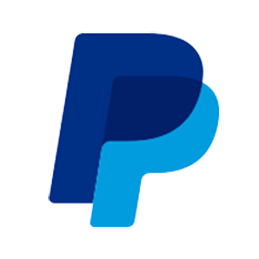
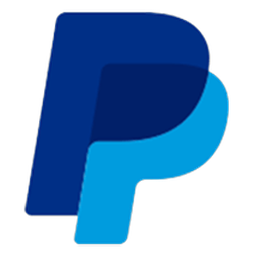
asad: PayPal в тикере крупнее и без пустых полей

Changed region(s): [[0.0938, 0.0312, 0.9062, 0.9688]]

diff --git a/index.html b/index.html
@@ -604,6 +604,25 @@
         color: #0a0a0a !important;
       }
 
+
+      /* Ticker: PayPal mark fills the icon box */
+      #home img[alt="PayPal"] {
+        width: 1.35rem !important;
+        height: 1.35rem !important;
+        min-width: 1.35rem;
+        min-height: 1.35rem;
+        transform: scale(1.15);
+        transform-origin: center;
+      }
+      @media (min-width: 768px) {
+        #home img[alt="PayPal"] {
+          width: 1.55rem !important;
+          height: 1.55rem !important;
+          min-width: 1.55rem;
+          min-height: 1.55rem;
+        }
+      }
+
       /* Hero background + theme-aware overlays / titles */
       #aileader-hero-shader {
         position: absolute;
@@ -1017,7 +1036,7 @@
   }
 }
 </script>
-  <script type="module" crossorigin src="/swensiteam/assets/index-Digf9FMO.js?v=icons-real2"></script>
+  <script type="module" crossorigin src="/swensiteam/assets/index-Digf9FMO.js?v=paypal-big1"></script>
   <script src="/swensiteam/js/about-section.js?v=orbit-all1" defer></script>
   </head>
   <body>
